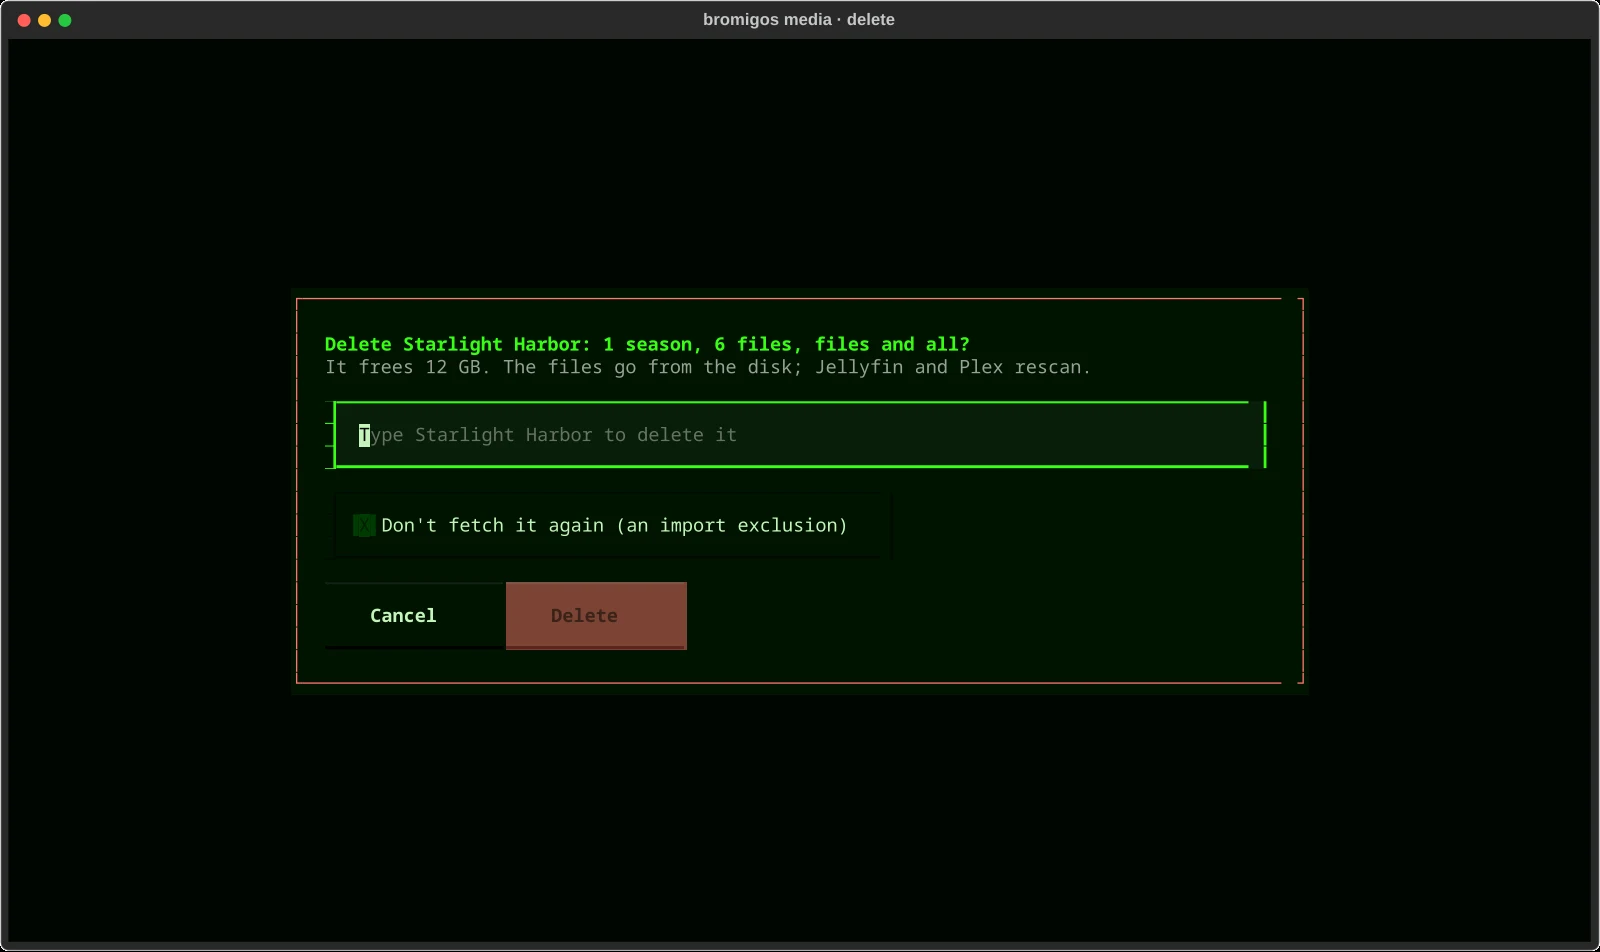
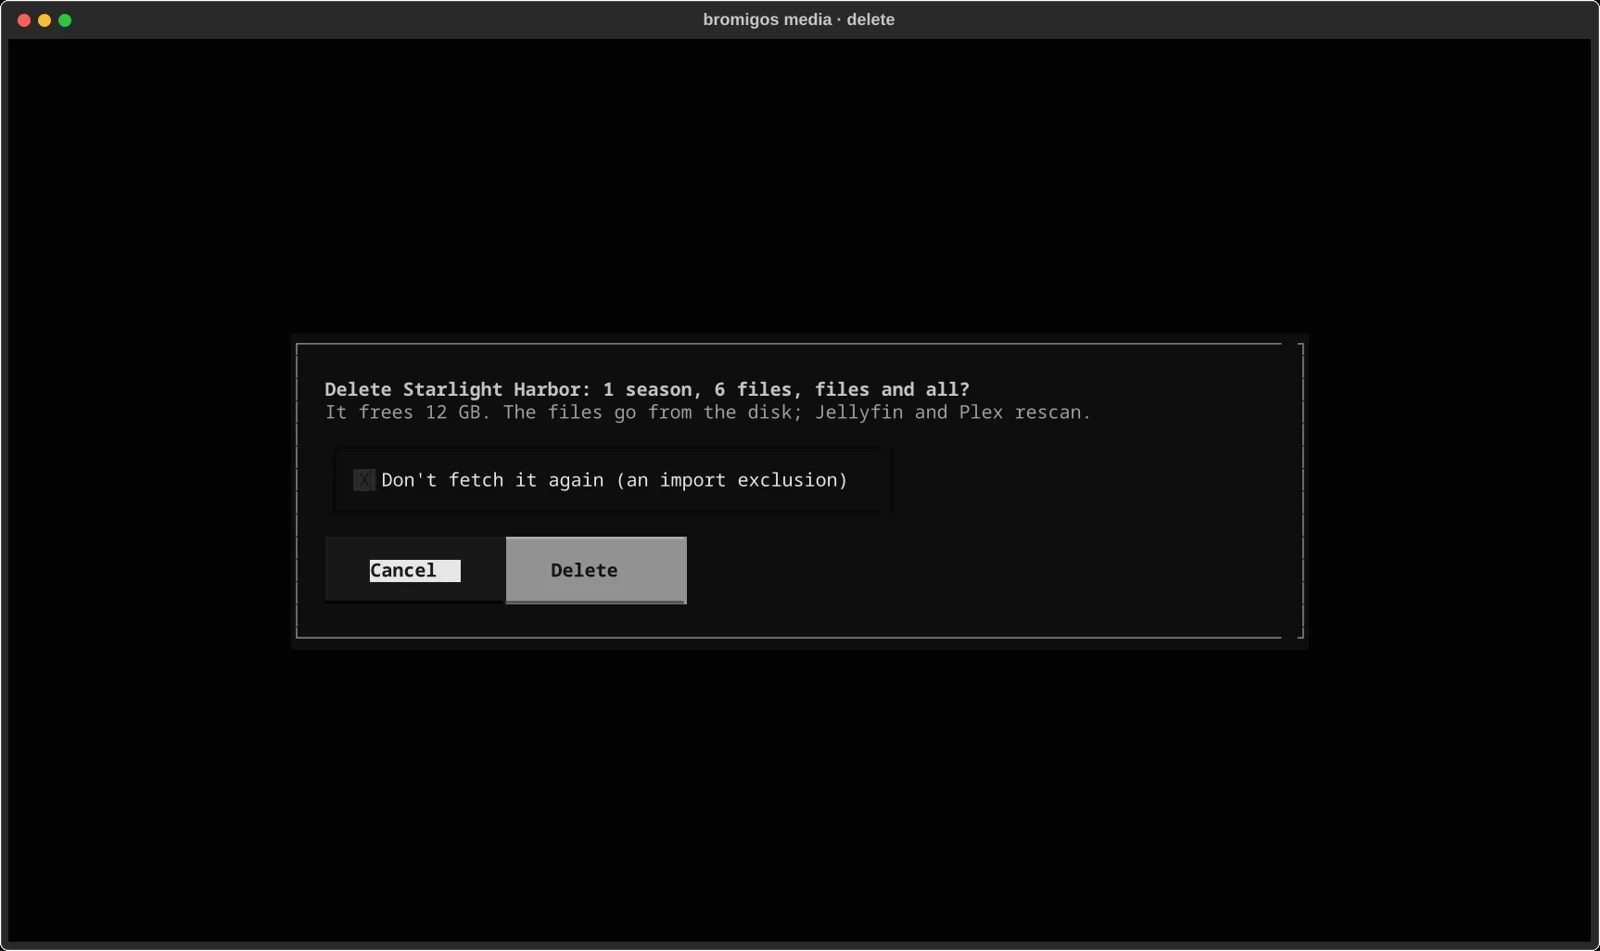
media: confirm deletion with Delete and Cancel buttons
Remove the typed-title gate from the media TUI. Keep the deletion details and import-exclusion option, and focus Cancel first. The CLI keeps its existing confirmation.

Validation: all 24 media TUI and CLI tests pass, including Enter cancelling and explicit Delete. Updated the offscreen manual picture; generated tables, manual build and links pass.

Changed region(s): [[0.1875, 0.3049, 0.7812, 0.7319], [0.0, 0.9758, 1.0, 1.0]]

diff --git a/homelab/tests/test_media_tui.py b/homelab/tests/test_media_tui.py
@@ -184,8 +184,7 @@ class TUI(Stack):
                             app.push_screen(T.Request(app.src, {"kind": "tv", "title": "Test show"}))
                         await pilot.pause()
                         if dialog == "delete":
-                            app.screen.query_one("#del-name").value = app.screen.plan["title"]
-                            app.screen.armed = True
+                            app.screen.query_one("#del-yes").focus()
                         await pilot.press(key)
                         self.assertTrue(app._exit)
                         self.assertEqual(self.st.deleted, [])
@@ -228,7 +227,7 @@ class TUI(Stack):
         async def fn(app, pilot):
             await pilot.press("D")
             await pilot.pause()
-            app.screen.query_one("#del-name").value = app.screen.plan["title"]
+            app.screen.query_one("#del-yes").focus()
             await pilot.press("right_square_bracket")
             await pilot.pause()
             self.assertNotIsInstance(app.screen, T.Confirm)
@@ -367,8 +366,7 @@ class TUI(Stack):
             await pilot.press('D');await pilot.pause()
             await pilot.press('escape');self.assertEqual(len(app.channel_store.load().channels()),1)
             await pilot.press('D');await pilot.pause()
-            app.screen.query_one('#del-name').value = 'Night Block'
-            await pilot.press('enter');await self.settle(app,pilot,3)
+            await pilot.click('#del-yes');await self.settle(app,pilot,3)
             self.assertEqual(app.channel_store.load().channels(),[])
             await pilot.press('ctrl+z');await self.settle(app,pilot,3)
             self.assertEqual(app.channel_store.load().channels()[0]['name'],'Night Block')
@@ -447,7 +445,7 @@ class TUI(Stack):
             self.shot(app, "downloads")
         self.run_app(fn)
 
-    def test_delete_cancel_then_confirm_by_name(self):
+    def test_delete_cancel_then_confirm_with_button(self):
         async def fn(app, pilot):
             tv = app.query_one("#tv-list")
             row = next(i for i in range(tv.row_count) if tv.get_row_at(i)[1] == "Starlight Harbor")
@@ -457,23 +455,22 @@ class TUI(Stack):
             await self.settle(app, pilot, 2)
             self.assertIn("Delete Starlight Harbor: 1 season, 6 files, files and all?",
                           str(app.screen.query_one("#del-what").render()))
-            self.assertTrue(app.screen.query_one("#del-yes").disabled)
+            self.assertFalse(app.screen.query_one("#del-yes").disabled)
+            self.assertIs(app.focused, app.screen.query_one("#del-no"))
+            self.assertFalse(app.screen.query("#del-name"))
             self.shot(app, "delete")
-            await pilot.press("escape")
+            await pilot.press("enter")
             await self.settle(app, pilot, 2)
-            self.assertEqual(self.st.deleted, [])                               # cancelled: nothing went
+            self.assertEqual(self.st.deleted, [])                               # default Cancel: nothing went
             await pilot.press("D")
             await self.settle(app, pilot, 2)
-            await pilot.click("#del-name")
-            await pilot.press(*"starlight harbor")
-            self.assertFalse(app.screen.query_one("#del-yes").disabled)
-            await pilot.press("enter")
+            await pilot.click("#del-yes")
             await self.settle(app, pilot, 6)
             self.assertEqual(self.st.deleted, [("sonarr", self.sh, ["true"], ["false"])])
             self.assertNotIn(self.sh, self.st.series)
         self.run_app(fn)
 
-    def test_delete_a_season_with_d_twice(self):
+    def test_delete_a_season_with_confirmation_button(self):
         async def fn(app, pilot):
             tv = app.query_one("#tv-list")
             tv.move_cursor(row=next(i for i in range(tv.row_count) if tv.get_row_at(i)[1] == "Paper Moon Cafe"))
@@ -487,7 +484,7 @@ class TUI(Stack):
             await self.settle(app, pilot, 2)
             self.assertIn("Paper Moon Cafe season 1: 4 episode files", str(app.screen.query_one("#del-what").render()))
             app.screen.query_one("#del-no").focus()
-            await pilot.press("D", "D")
+            await pilot.click("#del-yes")
             await self.settle(app, pilot, 6)
             self.assertEqual(len(self.st.deleted_files), 4)
             self.assertIn(self.pm, self.st.series)

diff --git a/homelab/lib/bromigos_homelab/mediatui.py b/homelab/lib/bromigos_homelab/mediatui.py
@@ -8,7 +8,7 @@ and request, as `media get`) and CHANNELS (the den TV). The header has the libra
 On a selected title, season, album or episode file: m monitors or stops, n picks up new
 episodes or not, P changes the quality profile, p plays on a den TV, f searches now, o opens it in Jellyfin,
 O in Seerr, t plays it full screen, D deletes it. A delete says exactly what goes and how
-much space it frees, then needs the title typed, or D pressed a second time. / filters, s
+much space it frees, then asks for Delete or Cancel. / filters, s
 sorts (added, size, name, missing, profile). Vim keys beside the arrows; every key, tab,
 row and button has a hint.
 
@@ -134,11 +134,9 @@ class MediaTable(HintTable):
 
 # ------------------------------------------------------------------ dialogs
 class Confirm(ModalScreen):
-    """Delete, in two steps: what goes and the space it frees; then type the title, or press D
-    again. Escape cancels."""
+    """Show what goes, then ask for Delete or Cancel. Cancel has focus by default."""
 
-    BINDINGS = [Binding("escape", "dismiss(None)", "Cancel", tooltip="Close without deleting anything"),
-                Binding("D", "again", "Delete (press twice)", tooltip="Press D again to delete")]
+    BINDINGS = [Binding("escape", "dismiss(None)", "Cancel", tooltip="Close without deleting anything")]
 
     def __init__(self, plan):
         super().__init__()
@@ -151,9 +149,6 @@ class Confirm(ModalScreen):
             yield Static(("Only the channel is removed. Its media files stay. Ctrl+Z restores it." if p["scope"] == "channel" else f"It frees {M.human(p['size'])}. The files go from the disk; Jellyfin and Plex rescan."
                          + ("" if p["scope"] != "season" else " The season stops being monitored, so it isn't "
                             "fetched again.")), classes="dim")
-            i = MediaInput(placeholder=f"Type {p['title']} to delete it", id="del-name")
-            i.tooltip = "Type the title exactly (any case), then Enter; or press D again"
-            yield i
             c = Checkbox("Don't fetch it again (an import exclusion)", id="del-exclude",
                          value=False, disabled=p["scope"] not in ("title", "album"))
             c.tooltip = "Sonarr, Radarr or Lidarr won't add it again from a list"
@@ -162,29 +157,12 @@ class Confirm(ModalScreen):
                 b = Button("Cancel", id="del-no")
                 b.tooltip = "Keep it (Escape)"
                 yield b
-                b = Button("Delete", id="del-yes", variant="error", disabled=True)
-                b.tooltip = "Enabled once the title is typed"
+                b = Button("Delete", id="del-yes", variant="error")
+                b.tooltip = "Delete only the files listed above"
                 yield b
 
     def on_mount(self):
-        self.armed = False
-        self.query_one("#del-name", Input).focus()
-
-    @on(Input.Changed, "#del-name")
-    def typed(self, ev):
-        self.query_one("#del-yes", Button).disabled = M._norm_title(ev.value) != M._norm_title(self.plan["title"])
-
-    @on(Input.Submitted, "#del-name")
-    def entered(self, ev):
-        if not self.query_one("#del-yes", Button).disabled:
-            self.go()
-
-    def action_again(self):
-        if self.armed:
-            self.go()
-        else:
-            self.armed = True
-            self.query_one("#del-what", Label).update(f"Delete {self.plan['what']}? Press D once more to delete.")
+        self.query_one("#del-no", Button).focus()
 
     @on(Button.Pressed, "#del-no")
     def no(self):

diff --git a/manual/src/lab.md b/manual/src/lab.md
@@ -381,7 +381,7 @@ then press a key:
 | `g`, `G` | First or last row |
 | `Ctrl+D`, `Ctrl+U` | Page down or up |
 | `Enter` | Open the selected item |
-| `Left`, `Right`, `h`, `l` | Switch between the title list and its side table |
+| `Left`, `Right`, `h`, `l` | Select tabs on the tab bar; switch between the title list and its side table |
 | `[`, `]`, `H`, `L` | Previous or next tab, including while typing. Cancel an open dialog |
 | `8`, `c` | Channels tab; add or remove a selected title from a channel |
 | `m` | Monitor it, or stop. On a season or an album, just that one |
@@ -398,11 +398,12 @@ Hover over anything to see what it does. The [media guide](media.md#make-channel
 covers Channels, its keys and CLI commands.
 
 **Deleting** removes the files from the disk, and frees the space. First it shows what goes
-and how much space that frees. Then type the title, or press `D` again. On a season, an
+and how much space that frees. Choose **Delete** or **Cancel**; Cancel is selected first.
+On a season, an
 episode file or an album, only that goes, and it stops being monitored. You can tick
 "Don't fetch it again", so your lab doesn't add it back from a list.
 
-![The delete question: what goes, how much space it frees, the title to type](images/media-delete.webp)
+![The delete question shows what goes, how much space it frees, and Delete and Cancel buttons](images/media-delete.webp)
 
 The same changes work as commands:
 

diff --git a/docs/lab.md b/docs/lab.md
@@ -410,14 +410,14 @@ then does it:
   stop being monitored, so they aren't fetched again;
 - then Jellyfin and Plex rescan.
 
-The TUI asks twice: type the title, or press `D` again. The CLI asks you to type the title,
+The TUI shows a Delete/Cancel dialog with Cancel focused first. The CLI asks you to type the title,
 or takes `--yes`. VECTOR's `media_delete` deletes only when your latest words ask for it and
 name the title. His terminal can't run `delete` at all.
 
 **Tests.** `homelab/tests/test_lab_media.py` covers the profile picker, anime detection, the
 languages, seasons and episodes, and every command. `homelab/tests/test_media_tui.py` drives
-the TUI with Textual's pilot: every tab, the delete dialog (cancel, typing the name, `D`
-twice, a season), quitting from every tab and modal, arrows and Vim keys between tabs
+the TUI with Textual's pilot: every tab, the delete dialog (default Cancel, Delete and
+a season), quitting from every tab and modal, arrows and Vim keys between tabs
 and content, monitor, profile, open, search and request, and filter and sort. With
 `MEDIA_SCREENSHOTS=DIR` it writes each tab as an SVG; the manual's pictures come from those. It runs them against a fake stack
 (`homelab/tests/mediafake.py`): one local server that answers like Seerr, Sonarr, Radarr,

diff --git a/docs/ASSETS.md b/docs/ASSETS.md
@@ -277,7 +277,7 @@ no likeness and no lab hosts.
   rendered offscreen with demo readings (`tools/screenshots/render.py`, `lab-console`);
   the tests' recorded lab, not a real one.
 - **`media-library.webp`** and **`media-delete.webp`**, on The lab console and Your media
-  pages. `bromigos media`'s TV tab and its delete question, exported by its tests
+  pages. `bromigos media`'s TV tab and its Delete/Cancel question, exported by its tests
   (`homelab/tests/test_media_tui.py`, `MEDIA_SCREENSHOTS=DIR`) from a fake media stack with
   made-up titles, converted from SVG at 1600 wide.
 - **`menu.webp`**, on The menu page. The menu with a search typed, rendered offscreen

diff --git a/manual/src/media.md b/manual/src/media.md
@@ -145,7 +145,7 @@ removed title or album from being added back by an import list. A removed season
 episode stops being monitored.
 
 In the terminal library, select the title, season or album and press `D`. Read the
-question, then type its title or press `D` again. Escape cancels. **Don't fetch it again**
+question, then choose **Delete** or **Cancel**. Cancel is selected first; Escape cancels. **Don't fetch it again**
 adds the import exclusion. To keep files and only stop looking for more, use `m` instead.
 The [delete reference](https://github.com/bromigos-org/bromigOS/blob/main/docs/lab.md#the-media-library)
 explains the scopes.

diff --git a/homelab/README.md b/homelab/README.md
@@ -66,6 +66,7 @@ The main modules in `lib/bromigos_homelab/`:
 
 The media library’s tab bar uses `Left`/`Right` or `h`/`l` to select a tab.
 `Down`/`j` enters its table; `Up`/`k` at the first row returns to the tab bar.
+Delete shows what will go, then asks for Delete or Cancel. Cancel is selected first.
 
 ## Run the tests
 
